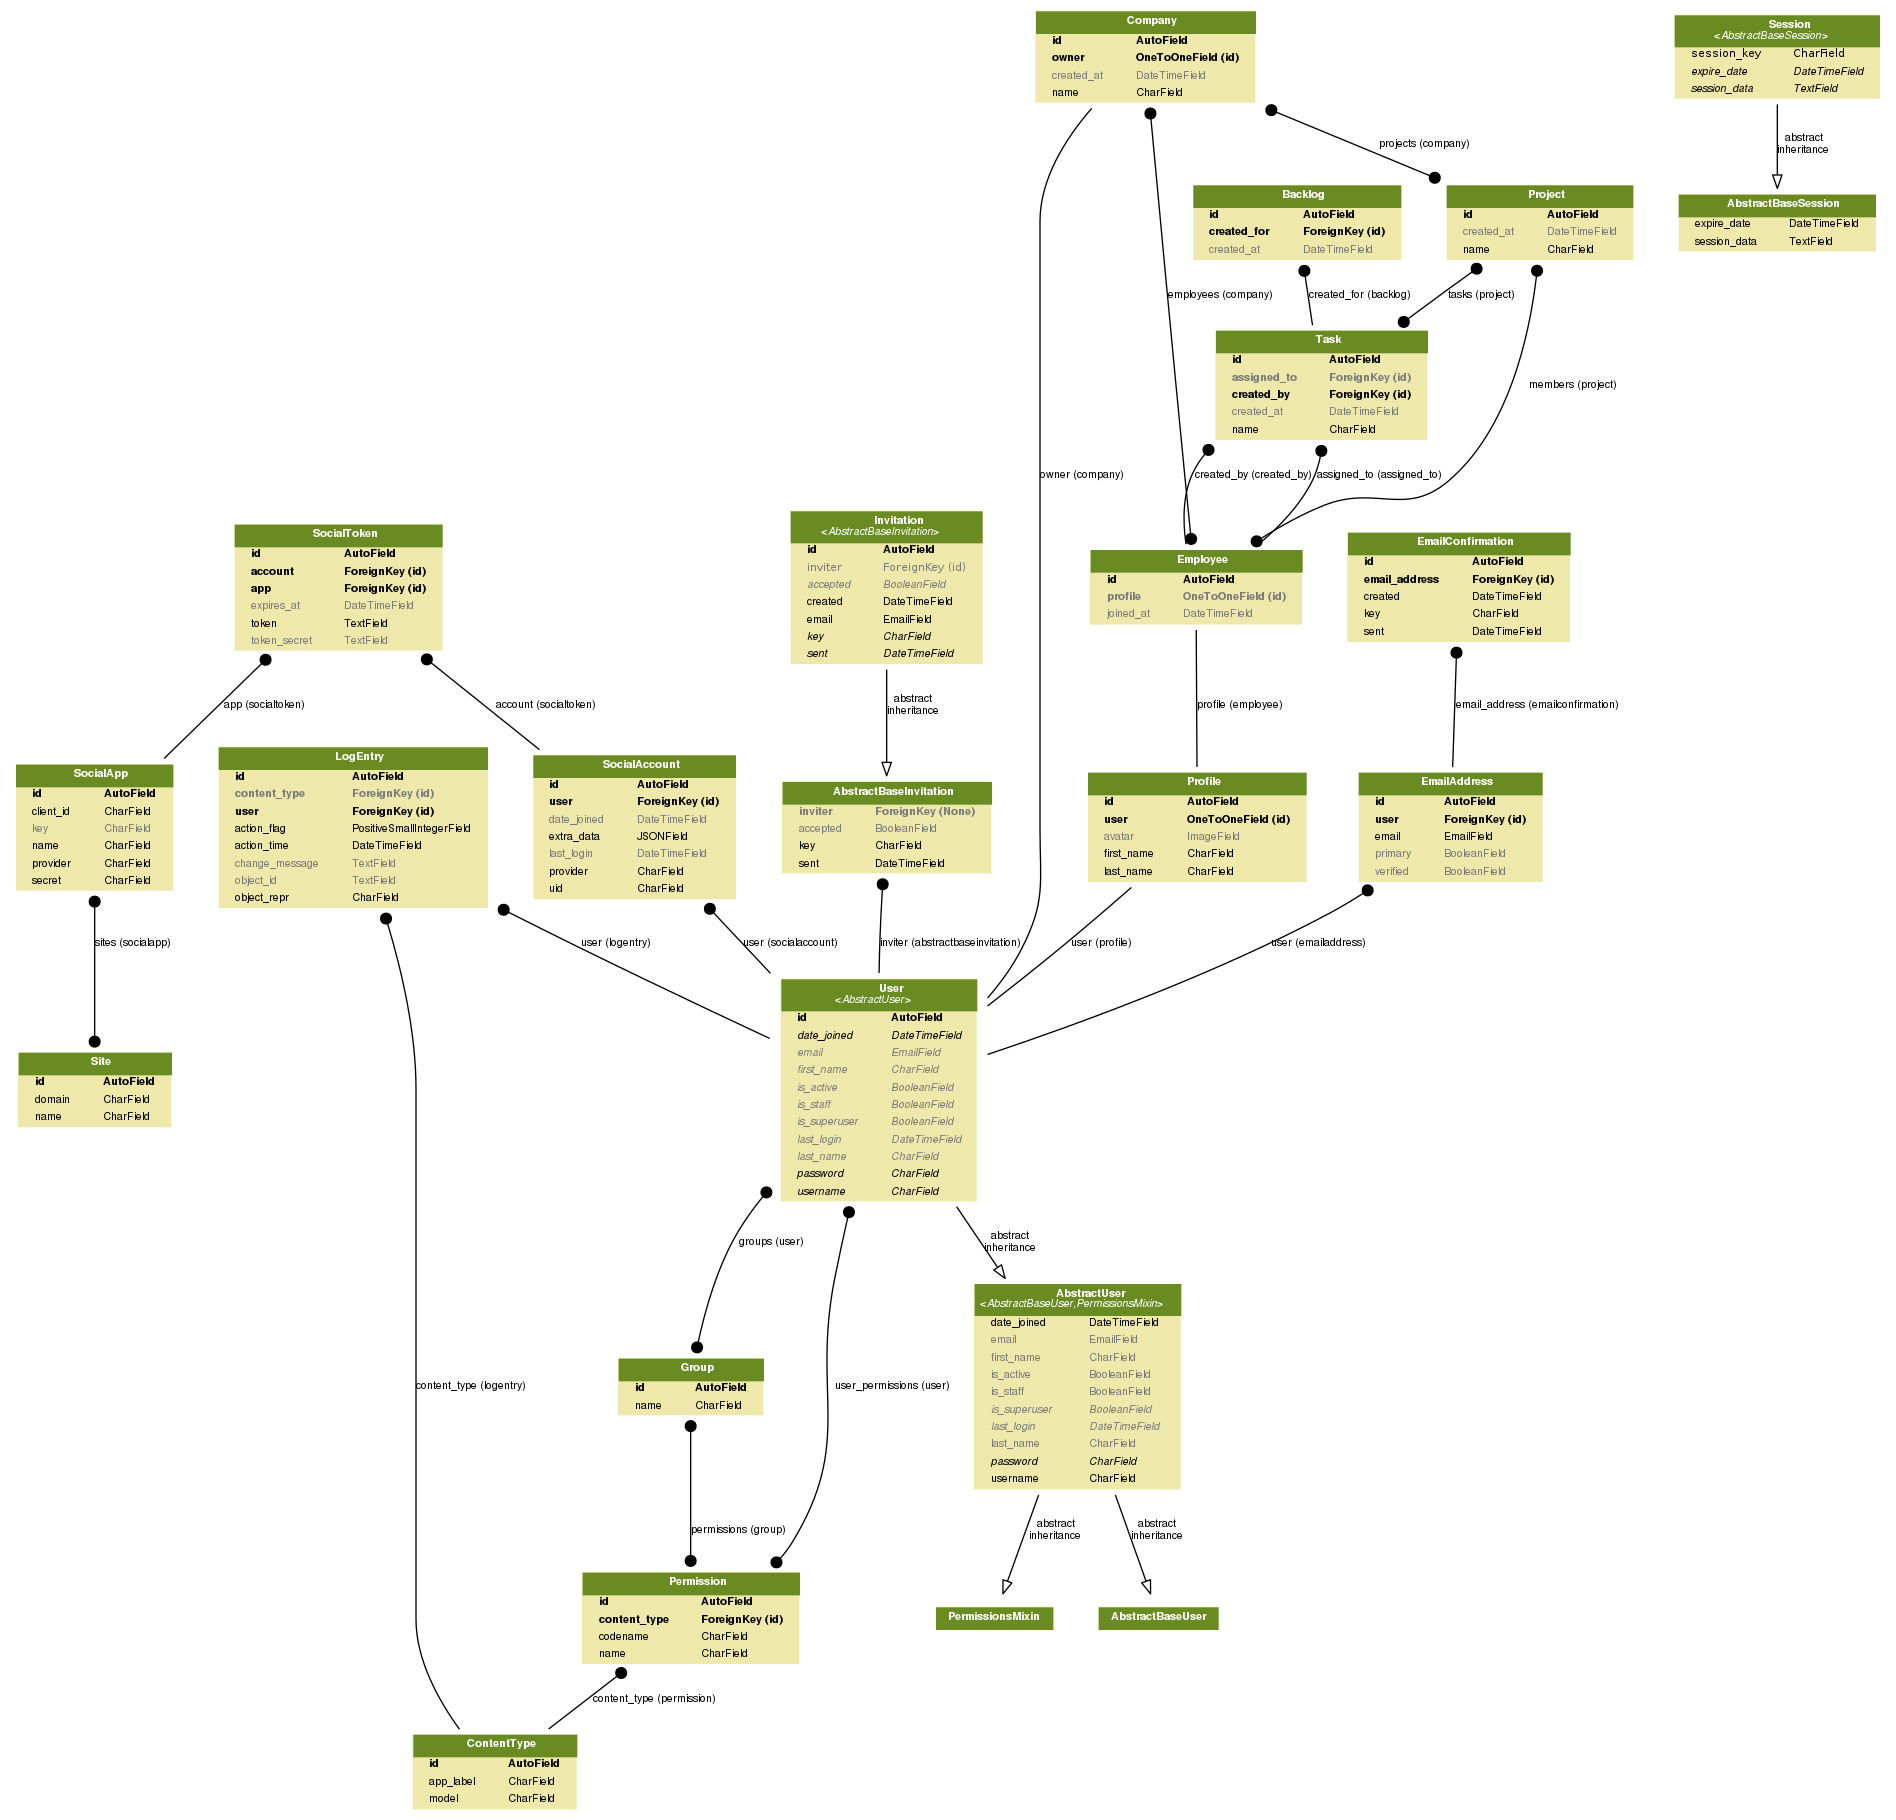
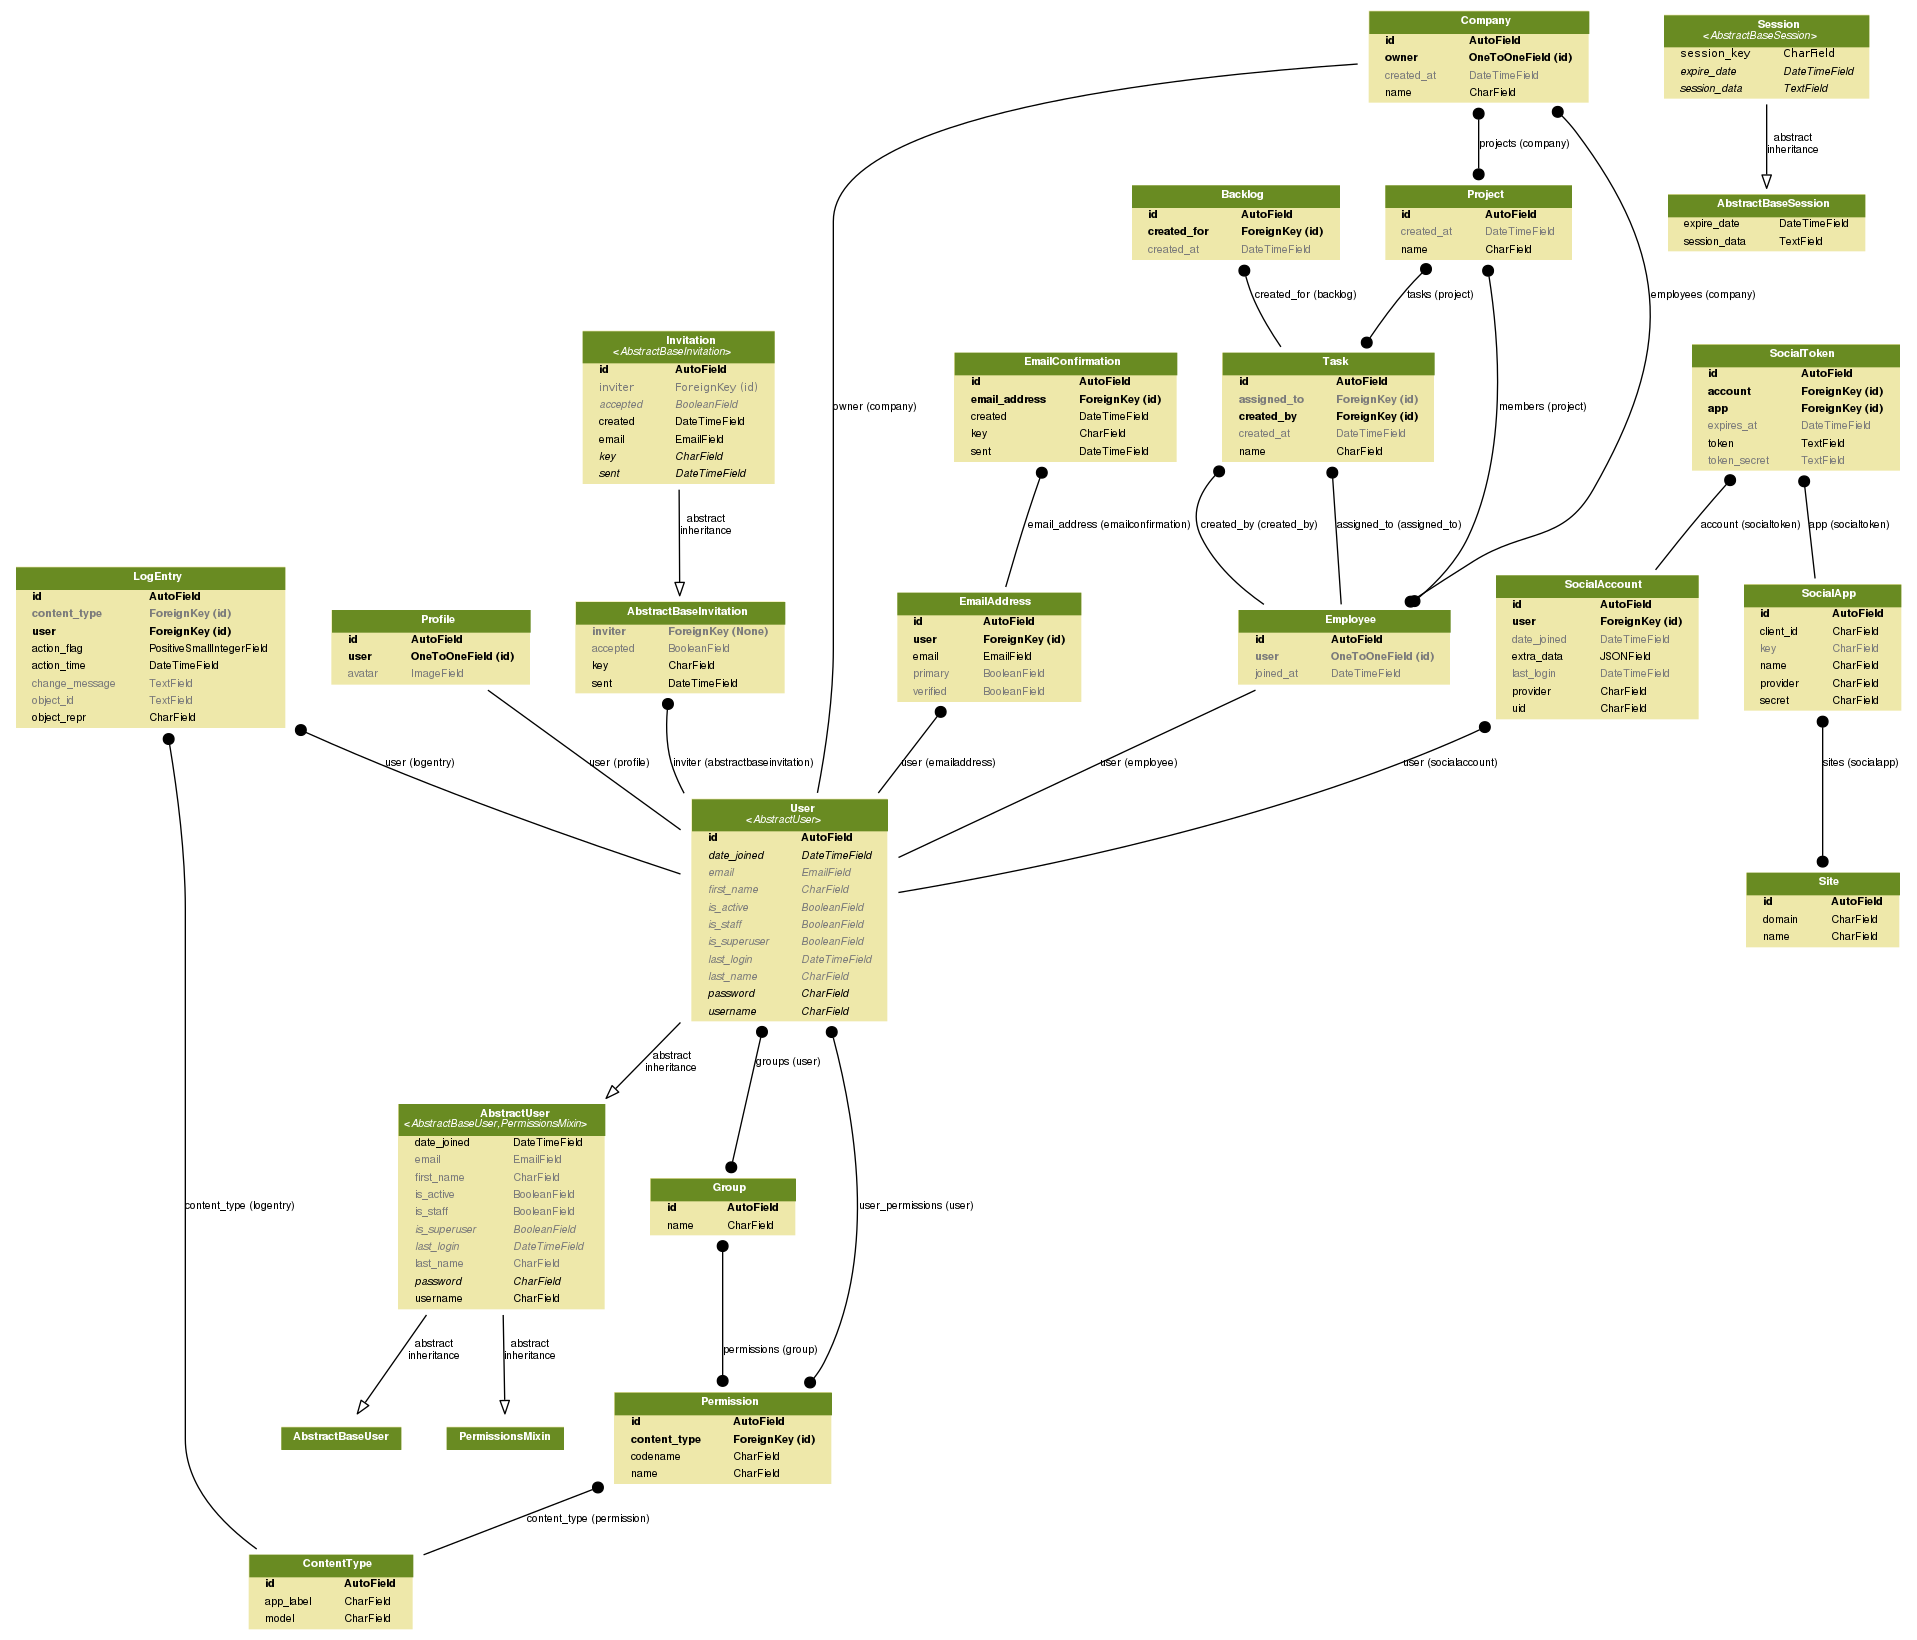
associations modified

diff --git a/templates/manage.html b/templates/manage.html
@@ -56,7 +56,7 @@
                     </div>
                     <div class="clearfix"></div>
                     <div class="col m3" ng-repeat="employee in company.employees">
-                        {{employee.profile.user.username}}
+                        {{employee.user.username}}
                     </div>
                 </div>
             </div>
@@ -68,7 +68,7 @@
                     </div>
                     <div class="clearfix"></div>
                     <div class="col m3" ng-repeat="member in project.members">
-                        {{member.profile.user.username}}
+                        {{member.user.username}}
                     </div>
                 </div>
             </div>

diff --git a/todo/forms.py b/todo/forms.py
@@ -1,7 +1,8 @@
 from django import forms
-from django.forms import TextInput, PasswordInput
+from django.forms import TextInput
 from django.utils.translation import ugettext_lazy as _
 from .models import (Project, Company, Profile, Employee)
+from django.contrib.auth.models import User
 
 
 class SignUpForm(forms.ModelForm):
@@ -25,7 +26,7 @@ class SignUpForm(forms.ModelForm):
         company.save()
         profile = Profile.objects.create(user=user)
         profile.save()
-        employee = Employee.objects.create(profile=profile)
+        employee = Employee.objects.create(user=user)
         employee.save()
         company.employees.add(employee)
 
@@ -38,8 +39,8 @@ class ProjectForm(forms.ModelForm):
 
 class ProfileForm(forms.ModelForm):
     class Meta:
-        model = Profile
-        fields = ('first_name', 'last_name',)
+        model = User
+        fields = ['first_name', 'last_name']
         widgets = {
             'first_name': TextInput(attrs={
                 'placeholder': 'Enter Your First Name'
@@ -47,23 +48,4 @@ class ProfileForm(forms.ModelForm):
             'last_name': TextInput(attrs={
                 'placeholder': 'Enter Your Last Name'
             })
-        }
-
-
-class AcceptInvitationForm(forms.ModelForm):
-    password = forms.CharField()
-    confirm_password = forms.CharField()
-
-    class Meta:
-        model = Profile
-        fields = ('first_name', 'last_name',)
-        widgets = {
-            'first_name': TextInput(attrs={
-                'placeholder': 'Enter Your First Name'
-            }),
-            'last_name': TextInput(attrs={
-                'placeholder': 'Enter Your Last Name'
-            }),
-            'password': PasswordInput(),
-            'confirm_password': PasswordInput()
         }

diff --git a/todo/views.py b/todo/views.py
@@ -45,7 +45,7 @@ def project(request):
 
 
 def profile(request):
-    instance = get_object_or_404(Profile, user=request.user)
+    instance = get_object_or_404(User, id=request.user.id)
     if request.method == 'POST':
         form = ProfileForm(request.POST, instance=instance)
         if form.is_valid():
@@ -73,7 +73,7 @@ def add_project(request):
     project.name = project_name
     project.save()
     company.projects.add(project)
-    employee = get_object_or_404(Employee, profile=request.user.profile)
+    employee = get_object_or_404(Employee, user=request.user)
     project.members.add(employee)
     data = {
         'status': True
@@ -111,7 +111,7 @@ def send_invite(request):
     user.save()
     profile = Profile.objects.create(user=user)
     profile.save()
-    employee = Employee.objects.create(profile=profile)
+    employee = Employee.objects.create(user=user)
     employee.save()
     company = get_object_or_404(Company, owner=request.user)
     company.employees.add(employee)
@@ -130,8 +130,8 @@ def add_task(request):
     project_name = request.POST.get('project_name')
     task_name = request.POST.get('task_name')
     project = get_object_or_404(Project, name=project_name)
-    profile = get_object_or_404(Profile, user=request.user)
-    employee_instance = get_object_or_404(Employee, profile=profile)
+    user = get_object_or_404(User, id=request.user.id)
+    employee_instance = get_object_or_404(Employee, user=user)
     task_instance = Task.objects.create(name=task_name,
                                         created_by=employee_instance)
     task_instance.save()

diff --git a/todo/models.py b/todo/models.py
@@ -6,8 +6,6 @@ from django.contrib.auth.models import User
 
 
 class Profile(models.Model):
-    first_name = models.CharField(max_length=100, blank="")
-    last_name = models.CharField(max_length=100, blank="")
     avatar = models.ImageField(upload_to='avatars', null=True, blank=True)
     avatar_thumbnail = ImageSpecField(source='avatar',
                                       processors=[ResizeToFill(200, 300)],
@@ -24,11 +22,13 @@ class Profile(models.Model):
 
 class Employee(models.Model):
     joined_at = models.DateTimeField(auto_now_add=True, auto_now=False)
-    profile = models.OneToOneField(Profile, blank=True, null=True,
-                                   on_delete=models.CASCADE)
+    # profile = models.OneToOneField(Profile, blank=True, null=True,
+    #                                on_delete=models.CASCADE)
+    user = models.OneToOneField(User, blank=True, null=True,
+                                on_delete=models.CASCADE)
 
     def __str__(self):
-        return self.profile.user.username
+        return self.user.username
 
 
 class Task(models.Model):

diff --git a/todo/admin.py b/todo/admin.py
@@ -4,7 +4,7 @@ from .models import (Profile, Project, Task, Company, Employee)
 
 
 class ProfileAdmin(admin.ModelAdmin):
-    list_display = ('get_user', 'first_name', 'last_name',)
+    list_display = ['get_user']
 
     def get_user(self, obj):
         return obj.user.username
@@ -25,14 +25,14 @@ class CompanyAdmin(admin.ModelAdmin):
         return obj.owner.username
 
     def get_employees(self, obj):
-        return ', '.join([employee.profile.user.username for employee in obj.employees.all()])
+        return ', '.join([employee.user.username for employee in obj.employees.all()])
 
 
 class EmployeeAdmin(admin.ModelAdmin):
-    list_display = ('get_profile', 'joined_at')
+    list_display = ('get_user', 'joined_at')
 
-    def get_profile(self, obj):
-        return obj.profile.user
+    def get_user(self, obj):
+        return obj.user.username
 
 
 admin.site.register(Profile, ProfileAdmin)

diff --git a/todo/api/views.py b/todo/api/views.py
@@ -19,7 +19,7 @@ class CompanyListView(ListAPIView):
     serializer_class = CompanyListSerializer
 
     def get_queryset(self, *args, **kwargs):
-        employee = Employee.objects.get(profile=self.request.user.profile)
+        employee = Employee.objects.get(user=self.request.user)
         company = employee.company_set.all()
         return company
 
@@ -45,7 +45,7 @@ class ProjectListView(ListAPIView):
     serializer_class = ProjectListSerializer
 
     def get_queryset(self, *args, **kwargs):
-        employee = Employee.objects.get(profile=self.request.user.profile)
+        employee = Employee.objects.get(user=self.request.user)
         projects = employee.project_set.all()
         return projects
 

diff --git a/todo/api/serializers.py b/todo/api/serializers.py
@@ -24,11 +24,11 @@ class ProfileListSerializer(ModelSerializer):
 
 
 class EmployeeListSerializer(ModelSerializer):
-    profile = ProfileListSerializer()
+    user = UserListSerializer()
 
     class Meta:
         model = Employee
-        fields = ['profile', ]
+        fields = ['user', ]
 
 
 class TaskListSerializer(ModelSerializer):
